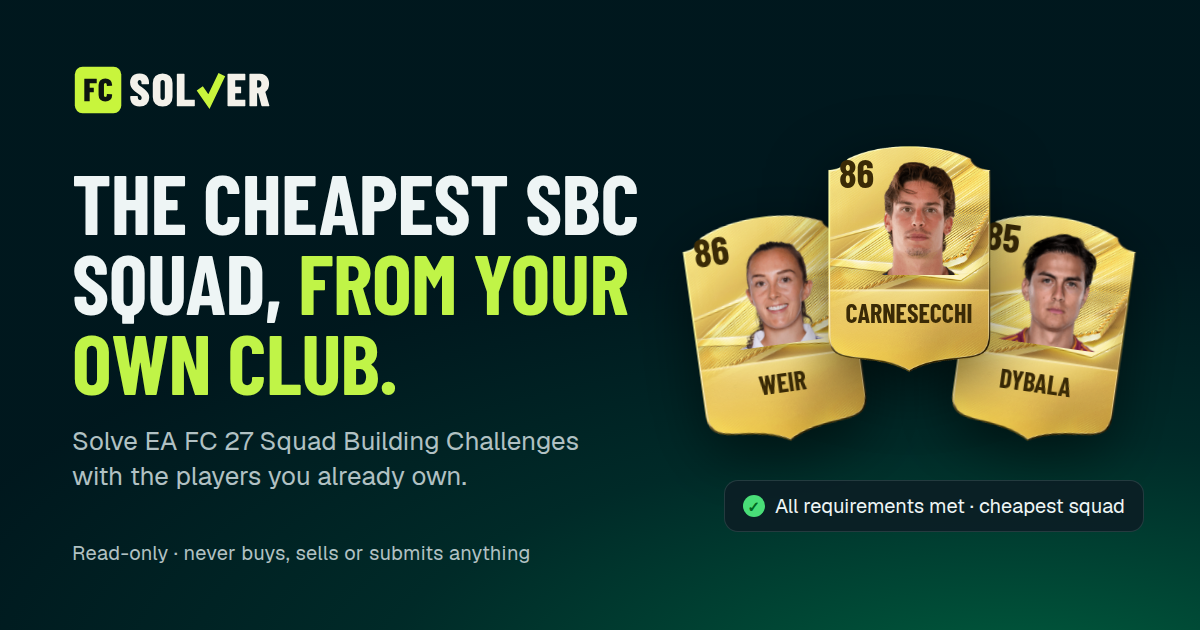
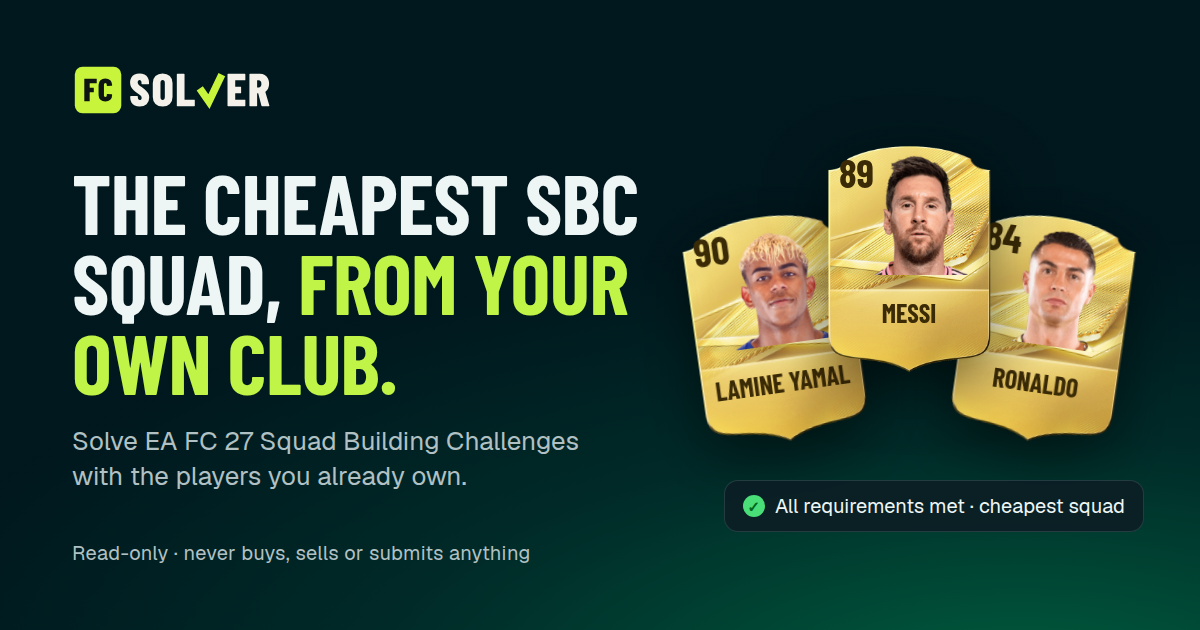
feat(landing): Messi, Lamine Yamal and Ronaldo in the demo squad
Hero and demo pitch use them (EA player db ratings, current clubs),
requirements now LALIGA 2 / Argentina 2 / Serie A 2 so the squad still
meets them. Link preview image shows the three. Unused art removed.

Changed region(s): [[0.5858, 0.3619, 0.925, 0.6333], [0.7092, 0.2413, 0.8017, 0.4524]]

diff --git a/web/src/landing/demo.ts b/web/src/landing/demo.ts
@@ -4,9 +4,9 @@ import type { Meta, Player } from '../api';
 
 export const DEMO_META: Meta = {
   names: {
-    nation: { 14: 'England', 45: 'Spain', 27: 'Italy', 42: 'Scotland', 52: 'Argentina', 21: 'Germany' },
-    league: { 13: 'Premier League', 2216: 'Barclays Women\'s Super League', 53: 'LALIGA EA SPORTS', 31: 'Serie A Enilive', 19: 'Bundesliga', 2218: 'Arkema Première Ligue' },
-    club: { 1: 'Arsenal', 116009: 'Arsenal', 241: 'FC Barcelona', 115845: 'Bergamo Calcio', 116033: 'OL Lyonnes', 52: 'AS Roma', 36: 'VfB Stuttgart' },
+    nation: { 14: 'England', 45: 'Spain', 27: 'Italy', 38: 'Portugal', 52: 'Argentina' },
+    league: { 2216: 'Barclays Women\'s Super League', 53: 'LALIGA EA SPORTS', 31: 'Serie A Enilive', 39: 'MLS', 350: 'ROSHN Saudi League' },
+    club: { 116009: 'Arsenal', 241: 'FC Barcelona', 115845: 'Bergamo Calcio', 52: 'AS Roma', 112893: 'Inter Miami CF', 112139: 'Al Nassr' },
     rarity: { 0: 'Common' },
   },
   formations: {},
@@ -27,12 +27,14 @@ const p = (assetId: number, name: string, fullName: string, rating: number, pos:
   untradeable: true, state: 'free', isLoan: false, rarityName: 'Gold', attributes: [], skillMoves: 3, weakFoot: 3, foot: 'Right',
 });
 
+// Order = the pitch spots in Hero / Steps (ST, RW, LW, CAM, CAM, CB, GK). Ratings from EA's player
+// database; the hero requirements (LALIGA 2, Argentina 2, Serie A 2) must stay met by this squad.
 export const DEMO_SQUAD: Player[] = [
-  p(244176, 'Undav', 'Deniz Undav', 85, 'ST', ['ST', 'CAM'], 36, 19, 21),
-  p(246669, 'Saka', 'Bukayo Saka', 87, 'RW', ['RW', 'RM'], 1, 13, 14),
+  p(20801, 'Ronaldo', 'Cristiano Ronaldo', 84, 'ST', ['ST'], 112139, 350, 38),
+  p(277643, 'Lamine Yamal', 'Lamine Yamal', 90, 'RW', ['RW', 'RM'], 241, 53, 45),
   p(257001, 'Kelly', 'Chloe Kelly', 86, 'LM', ['LM', 'RM', 'LW', 'RW'], 116009, 2216, 14),
+  p(158023, 'Messi', 'Lionel Messi', 89, 'CAM', ['CAM', 'RW', 'CF'], 112893, 39, 52),
   p(211110, 'Dybala', 'Paulo Dybala', 85, 'CAM', ['CAM', 'ST'], 52, 31, 52),
-  p(245879, 'Weir', 'Caroline Weir', 86, 'CAM', ['CAM', 'CM', 'CDM'], 116033, 2218, 42),
   p(278046, 'Pau Cubarsí', 'Pau Cubarsí', 86, 'CB', ['CB'], 241, 53, 45),
   p(252154, 'Carnesecchi', 'Marco Carnesecchi', 86, 'GK', ['GK'], 115845, 31, 27),
 ];

diff --git a/web/src/locales/ro.ts b/web/src/locales/ro.ts
@@ -457,8 +457,8 @@ export const ro: Record<Keys, string> & Partial<Record<Plural<Keys>, string>> = 
   'landing.hero.lede': 'Alegi un SBC și apeși Solve. FC Solver îl construiește din jucătorii pe care îi ai deja și folosește cardurile tale cele mai puțin valoroase. Tu îl refaci în web app.',
   'landing.hero.how': 'Vezi cum funcționează',
   'landing.hero.stage': 'Exemplu: jucători din clubul tău ajung pe teren și toate cerințele sunt îndeplinite.',
-  'landing.hero.req1': 'Jucători din Premier League: min. 1',
-  'landing.hero.req2': 'Jucători din Anglia: min. 2',
+  'landing.hero.req1': 'Jucători din LALIGA EA SPORTS: min. 2',
+  'landing.hero.req2': 'Jucători din Argentina: min. 2',
   'landing.hero.req3': 'Jucători din Serie A: min. 2',
   'landing.why.title': 'Făcut pentru clubul pe care îl ai deja',
   'landing.club.title': 'Doar clubul tău',

diff --git a/web/src/locales/en.ts b/web/src/locales/en.ts
@@ -463,8 +463,8 @@ export const en = {
   'landing.hero.lede': 'Pick an SBC and press Solve. FC Solver builds it from the players you already own and spends your least valuable cards. You rebuild it in the web app yourself.',
   'landing.hero.how': 'See how it works',
   'landing.hero.stage': 'Example: players from your club land on the pitch and every requirement is met.',
-  'landing.hero.req1': 'Players from Premier League: min. 1',
-  'landing.hero.req2': 'Players from England: min. 2',
+  'landing.hero.req1': 'Players from LALIGA EA SPORTS: min. 2',
+  'landing.hero.req2': 'Players from Argentina: min. 2',
   'landing.hero.req3': 'Players from Serie A: min. 2',
   'landing.why.title': 'Built for the club you already have',
   'landing.club.title': 'Only your club',

diff --git a/web/src/landing/Pillars.tsx b/web/src/landing/Pillars.tsx
@@ -27,7 +27,7 @@ function Advantage({ id, title, body, bg, children }: { id: string; title: strin
 }
 
 // DEMO_SQUAD index + an example market price
-const OWNED: [number, number][] = [[1, 61000], [2, 52500], [4, 44000], [5, 38500], [6, 21000]];
+const OWNED: [number, number][] = [[1, 152000], [3, 98000], [4, 44000], [5, 38500], [6, 21000]];
 
 function ClubProof() {
   const { t, lang } = useI18n();
